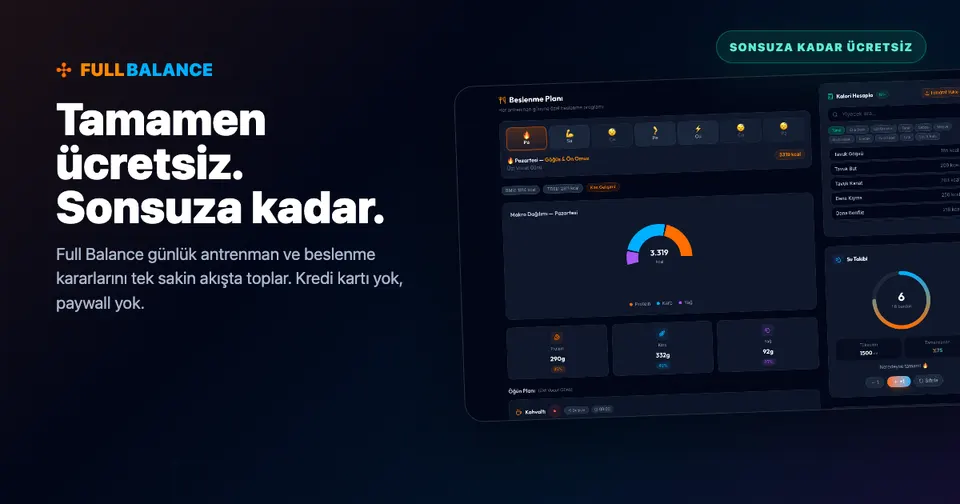
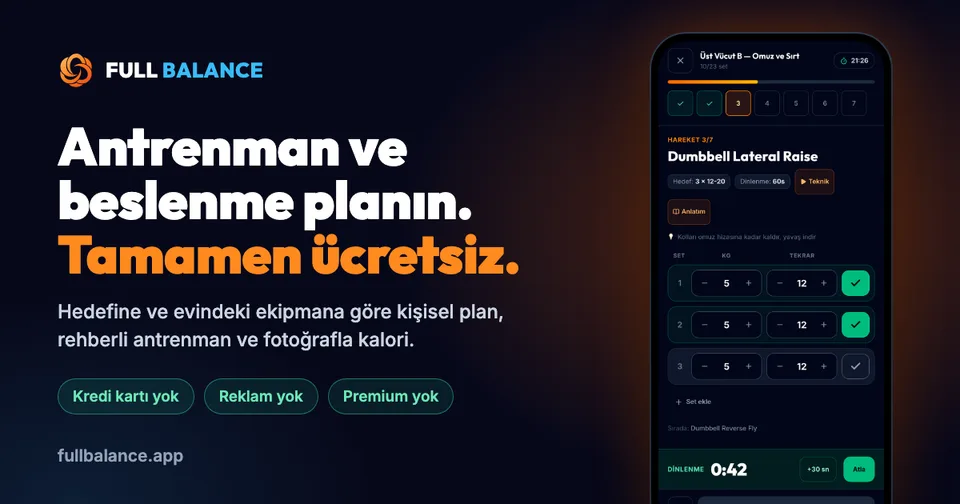
Add a press kit page and refresh share images with the new mark
- /press: key facts, features, founder, downloadable logo, icon and screens
- New TR/EN/ES share images; Spanish pages now use a Spanish image
- Target maintenance calorie searches in the EN/ES calculator titles
- Organization schema: image logo, slogan and Product Hunt profile

diff --git a/public/press/index.html b/public/press/index.html
@@ -1,0 +1,129 @@
+<!doctype html>
+<html lang="en">
+<head>
+<meta charset="utf-8">
+<meta name="viewport" content="width=device-width, initial-scale=1">
+<title>Full Balance Press Kit: Facts, Logo and Screenshots</title>
+<meta name="description" content="Press kit for Full Balance, the completely free personal workout and nutrition app at fullbalance.app: key facts, features, founder, logo files and app screenshots.">
+<link rel="canonical" href="https://fullbalance.app/press">
+<link rel="icon" type="image/png" sizes="32x32" href="/favicon-32.png?v=6">
+<meta property="og:type" content="website">
+<meta property="og:title" content="Full Balance Press Kit">
+<meta property="og:description" content="Key facts, logo files and screenshots of Full Balance, the completely free workout and nutrition app.">
+<meta property="og:url" content="https://fullbalance.app/press">
+<meta property="og:image" content="https://fullbalance.app/og/full-balance-og-en.png?v=2">
+<meta name="twitter:card" content="summary_large_image">
+<script type="application/ld+json">
+{
+  "@context": "https://schema.org",
+  "@type": "AboutPage",
+  "name": "Full Balance Press Kit",
+  "url": "https://fullbalance.app/press",
+  "inLanguage": "en",
+  "about": {
+    "@type": "Organization",
+    "@id": "https://fullbalance.app/#organization",
+    "name": "Full Balance",
+    "url": "https://fullbalance.app/",
+    "logo": "https://fullbalance.app/press/full-balance-icon-512.png",
+    "slogan": "Your personal workout and nutrition plan. Completely free.",
+    "email": "info@fullbalance.app",
+    "founder": { "@type": "Person", "name": "Tolga Deveci", "url": "https://fullbalance.app/en/founder-tolga-deveci" },
+    "sameAs": ["https://www.producthunt.com/products/full-balance"]
+  }
+}
+</script>
+<style>
+:root{--bg:#07081a;--card:#0f1229;--line:#232849;--text:#e2e8f0;--muted:#94a3b8;--accent:#ff8a1f;--sky:#38bdf8}
+*{box-sizing:border-box}
+body{margin:0;background:var(--bg);color:var(--text);font:16px/1.65 Inter,system-ui,-apple-system,"Segoe UI",sans-serif}
+main{max-width:920px;margin:0 auto;padding:40px 20px 64px}
+a{color:var(--sky)}
+.top{display:flex;justify-content:space-between;align-items:center;gap:12px}
+.brand{display:flex;align-items:center;gap:10px;font-weight:800;letter-spacing:.02em;color:#fff;text-decoration:none}
+.brand img{width:30px;height:31px}
+.brand b{color:var(--sky)}
+h1{font-size:clamp(30px,6vw,44px);line-height:1.1;margin:36px 0 12px;color:#fff}
+h2{font-size:22px;margin:40px 0 12px;color:#fff}
+.lead{font-size:19px;color:#cbd5e1;max-width:720px}
+table{width:100%;border-collapse:collapse;font-size:15px}
+th,td{text-align:left;vertical-align:top;padding:10px 12px;border-bottom:1px solid var(--line)}
+th{width:34%;color:var(--muted);font-weight:600}
+ul{padding-left:20px}
+li{margin:6px 0}
+.grid{display:grid;grid-template-columns:repeat(auto-fit,minmax(180px,1fr));gap:14px}
+.asset{background:var(--card);border:1px solid var(--line);border-radius:16px;padding:14px;text-align:center}
+.asset img{max-width:100%;height:120px;object-fit:contain;display:block;margin:0 auto 10px}
+.asset.light img{background:#fff;border-radius:10px;padding:10px}
+.shots{display:grid;grid-template-columns:repeat(auto-fit,minmax(150px,1fr));gap:14px}
+.shots a{display:block;background:#000;border-radius:20px;padding:5px;border:1px solid var(--line)}
+.shots img{width:100%;display:block;border-radius:16px}
+.note{color:var(--muted);font-size:14px}
+.cta{display:inline-block;margin-top:8px;background:var(--accent);color:#111;font-weight:800;text-decoration:none;padding:12px 18px;border-radius:12px}
+.lang{background:var(--card);border:1px solid var(--line);border-radius:16px;padding:16px 18px;margin-top:14px}
+.lang h3{margin:0 0 6px;font-size:16px;color:#fff}
+</style>
+</head>
+<body>
+<main>
+  <div class="top">
+    <a class="brand" href="/en"><img src="/press/full-balance-mark.svg" alt="" width="30" height="31"><span>FULL <b>BALANCE</b></span></a>
+    <a href="/en">fullbalance.app</a>
+  </div>
+
+  <h1>Full Balance press kit</h1>
+  <p class="lead">Full Balance is a completely free personal workout and nutrition app. It builds a plan for each person's goal, level and the equipment they have, guides every workout set by set, and estimates meal calories from a photo. There is no subscription, no paywall and no ads.</p>
+
+  <h2>Key facts</h2>
+  <table>
+    <tr><th>Name</th><td>Full Balance (fullbalance.app)</td></tr>
+    <tr><th>What it is</th><td>Free personal workout, nutrition and progress app that runs in the browser and can be installed on the phone's home screen (PWA)</td></tr>
+    <tr><th>Price</th><td>Free. No credit card, no trial, no premium tier, no ads. Optional voluntary support only.</td></tr>
+    <tr><th>Languages</th><td>English, Spanish, Turkish</td></tr>
+    <tr><th>Goals supported</th><td>Muscle gain, fat loss, yoga, meditation, reformer, Pilates</td></tr>
+    <tr><th>Training places</th><td>Home with no equipment, home with basic equipment (dumbbells, bands), gym</td></tr>
+    <tr><th>First members</th><td>June 2026</td></tr>
+    <tr><th>Members</th><td>400+ registered members (November 2026)</td></tr>
+    <tr><th>Founder</th><td><a href="/en/founder-tolga-deveci">Tolga Deveci</a>, founder and software developer</td></tr>
+    <tr><th>Contact</th><td><a href="mailto:info@fullbalance.app">info@fullbalance.app</a></td></tr>
+    <tr><th>Elsewhere</th><td><a href="https://www.producthunt.com/products/full-balance" rel="noopener">Product Hunt</a></td></tr>
+  </table>
+
+  <h2>What it does</h2>
+  <ul>
+    <li><strong>Personal plan:</strong> workouts built from the goal, experience level, available days and the equipment declared at signup.</li>
+    <li><strong>Guided workout mode:</strong> each exercise with an animated how-to and technique video, set and weight logging, an automatic rest timer and previous weights pre-filled.</li>
+    <li><strong>Nutrition:</strong> daily calorie and macro targets that follow the training day, a 7-day menu with budget, health and allergy options.</li>
+    <li><strong>Photo calories:</strong> snap a meal, correct foods and portions, and get a calorie range. The photo is processed for the analysis and not stored.</li>
+    <li><strong>Progress:</strong> weight, measurements and body-fat trends, reports and Excel export; water and sleep tracking.</li>
+    <li><strong>28-day challenge:</strong> 12 workouts in 28 days, with a printable calendar.</li>
+  </ul>
+
+  <h2>Why it is free</h2>
+  <p>Full Balance is built by an independent founder who wants a complete, honest fitness app to be available to anyone, regardless of budget. Member data is not sold or shared for advertising. The project is kept running by small, optional support from people who use it. Full Balance is not a medical tool and does not replace professional advice.</p>
+
+  <h2>Logo and icon</h2>
+  <div class="grid">
+    <div class="asset"><img src="/press/full-balance-logo-dark.png" alt="Full Balance logo on dark background"><a href="/press/full-balance-logo-dark.png" download>Logo, dark (PNG)</a></div>
+    <div class="asset light"><img src="/press/full-balance-logo-light.png" alt="Full Balance logo on light background"><a href="/press/full-balance-logo-light.png" download>Logo, light (PNG)</a></div>
+    <div class="asset"><img src="/press/full-balance-icon-512.png" alt="Full Balance app icon"><a href="/press/full-balance-icon-512.png" download>App icon (PNG)</a></div>
+    <div class="asset"><img src="/press/full-balance-mark.svg" alt="Full Balance symbol"><a href="/press/full-balance-mark.svg" download>Symbol (SVG)</a></div>
+  </div>
+  <p class="note">Please do not alter, recolour or crop the logo. Screens below use sample data.</p>
+
+  <h2>App screenshots</h2>
+  <div class="shots">
+    <a href="/press/screen-session.webp"><img src="/press/screen-session.webp" alt="Guided workout mode with sets, weights and rest timer" loading="lazy"></a>
+    <a href="/press/screen-today.webp"><img src="/press/screen-today.webp" alt="Today screen with the day's workout and weekly balance" loading="lazy"></a>
+    <a href="/press/screen-nutrition.webp"><img src="/press/screen-nutrition.webp" alt="Nutrition plan with daily calories and macros" loading="lazy"></a>
+    <a href="/press/screen-progress.webp"><img src="/press/screen-progress.webp" alt="Progress screen with weight and body-fat trends" loading="lazy"></a>
+  </div>
+
+  <h2>Other languages</h2>
+  <div class="lang"><h3>Türkçe</h3>Full Balance, tamamen ücretsiz kişisel antrenman ve beslenme uygulamasıdır. Hedefe, seviyeye ve evdeki ekipmana göre plan hazırlar, antrenmanı set set yönlendirir ve öğün fotoğrafından kalori tahmin eder. Abonelik, premium ve reklam yoktur. Basın için: <a href="mailto:info@fullbalance.app">info@fullbalance.app</a> · <a href="/kurucu-tolga-deveci">Kurucu: Tolga Deveci</a></div>
+  <div class="lang"><h3>Español</h3>Full Balance es una app de entrenamiento y nutrición personal totalmente gratis. Crea un plan según el objetivo, el nivel y el material disponible, guía cada entreno serie a serie y estima las calorías de una comida con una foto. Sin suscripción, sin muro de pago y sin anuncios. Prensa: <a href="mailto:info@fullbalance.app">info@fullbalance.app</a> · <a href="/es/fundador-tolga-deveci">Fundador: Tolga Deveci</a></div>
+
+  <p style="margin-top:36px"><a class="cta" href="/en">Visit Full Balance</a></p>
+</main>
+</body>
+</html>

diff --git a/src/data/internationalSeoPages.js b/src/data/internationalSeoPages.js
@@ -159,15 +159,15 @@ const pageDefinitions = {
     paths: { tr: '/gunluk-kalori-ihtiyaci-hesaplama', en: '/en/calorie-macro-calculator', es: '/es/calculadora-calorias-macros' },
     category: 'nutrition', calculator: 'calories',
     en: {
-      title: 'Free Daily Calorie Calculator', accent: 'BMR, Maintenance and Deficit', metaTitle: 'Daily Calorie Calculator: BMR, Maintenance and Deficit | Full Balance',
-      description: 'Calculate your basal metabolic rate, maintenance calories and a target for fat loss or muscle gain from age, height, weight, sex and activity. Free, no signup, with macros.',
+      title: 'Free Daily Calorie Calculator', accent: 'BMR, Maintenance and Deficit', metaTitle: 'Maintenance Calorie Calculator: BMR, TDEE and Deficit, Free | Full Balance',
+      description: 'Free maintenance calorie calculator: get your BMR, maintenance calories (TDEE) and a daily target for fat loss or muscle gain from age, height, weight, sex and activity. No signup, with macros.',
       hero: 'Get three numbers in seconds: BMR (what you burn at rest), maintenance (with your activity) and a daily target for your goal, split into protein, carbs and fat.',
       sections: [['Mifflin-St Jeor, the formula that holds up', 'BMR = 10 × kg + 6.25 × cm − 5 × age + 5 for men, −161 for women; the most consistent practical equation in validation studies.'], ['A deficit that you can keep', 'Fat loss uses a 15% deficit from maintenance, about 300-500 kcal for most adults, never below your BMR. Muscle gain adds 10%.'], ['Macros and a plan, not just a number', 'Protein is set from body weight, carbs and fat fill the rest. Save the result and the free plan builds seven days of meals and workouts around it.']],
       faqs: [['How many calories should I eat to lose weight?', 'About 15% below your maintenance calories, which is 300-500 kcal per day for most adults. Going below your BMR is not recommended; the calculator shows that floor.'], ['How is a calorie deficit calculated?', 'Maintenance = BMR × activity factor. A percentage is then removed depending on the goal; this calculator applies a 15% deficit for fat loss.'], ['What is the difference between BMR and maintenance calories?', 'BMR is the energy you burn at complete rest. Maintenance adds daily movement and training, typically 20-90% more depending on activity.'], ['How accurate is this?', 'The formula is based on population averages; individual error is around ±10%. Track your weight trend for two to three weeks and adjust by 100-150 kcal; the app suggests this automatically.']],
     },
     es: {
-      title: 'Calculadora de Calorías Diarias', accent: 'TMB, Mantenimiento y Déficit', metaTitle: 'Calculadora de Calorías Diarias: TMB, Mantenimiento y Déficit | Full Balance',
-      description: 'Calcula tu tasa metabólica basal, tus calorías de mantenimiento y un objetivo para adelgazar o ganar músculo según edad, altura, peso, sexo y actividad. Gratis, sin registro y con macros.',
+      title: 'Calculadora de Calorías Diarias', accent: 'TMB, Mantenimiento y Déficit', metaTitle: 'Calculadora de Calorías de Mantenimiento Gratis: TMB y Déficit | Full Balance',
+      description: 'Calculadora de calorías de mantenimiento gratis: calcula tu TMB, tus calorías de mantenimiento y un objetivo para adelgazar o ganar músculo según edad, altura, peso, sexo y actividad. Sin registro y con macros.',
       hero: 'Tres cifras en segundos: TMB (lo que gastas en reposo), mantenimiento (con tu actividad) y un objetivo diario para tu meta, repartido en proteína, carbohidratos y grasa.',
       sections: [['Mifflin-St Jeor, la fórmula que mejor funciona', 'TMB = 10 × kg + 6,25 × cm − 5 × edad + 5 en hombres, −161 en mujeres; la ecuación práctica más consistente en estudios de validación.'], ['Un déficit que puedes mantener', 'Para perder grasa o bajar de peso se aplica un 15% por debajo del mantenimiento, unas 300-500 kcal para la mayoría de adultos, nunca por debajo de la TMB. Para ganar músculo se suma un 10%.'], ['Macros y un plan, no solo un número', 'La proteína se fija según el peso corporal; carbohidratos y grasa completan el resto. Guarda el resultado y el plan gratis crea siete días de comidas y entrenamientos.']],
       faqs: [['¿Cuántas calorías debo comer para adelgazar o bajar de peso?', 'Alrededor de un 15% por debajo de tu mantenimiento, es decir 300-500 kcal diarias para la mayoría de adultos. No conviene bajar de la TMB; la calculadora muestra ese límite.'], ['¿Cómo se calcula el déficit calórico?', 'Mantenimiento = TMB × factor de actividad. Luego se resta un porcentaje según el objetivo; esta calculadora aplica un 15% para perder grasa.'], ['¿Qué diferencia hay entre TMB y calorías de mantenimiento?', 'La TMB es la energía que gastas en reposo absoluto. El mantenimiento añade el movimiento diario y el entrenamiento, normalmente un 20-90% más según la actividad.'], ['¿Qué tan precisa es?', 'La fórmula se basa en promedios poblacionales; el error individual ronda el ±10%. Sigue tu tendencia de peso dos o tres semanas y ajusta 100-150 kcal; la app lo sugiere automáticamente.']],

diff --git a/index.html b/index.html
@@ -46,8 +46,8 @@
     <meta property="og:locale" content="tr_TR" />
     <meta property="og:locale:alternate" content="en_US" />
     <meta property="og:locale:alternate" content="es_ES" />
-    <meta property="og:image" content="https://fullbalance.app/og/full-balance-og-tr.png" />
-    <meta property="og:image:secure_url" content="https://fullbalance.app/og/full-balance-og-tr.png" />
+    <meta property="og:image" content="https://fullbalance.app/og/full-balance-og-tr.png?v=2" />
+    <meta property="og:image:secure_url" content="https://fullbalance.app/og/full-balance-og-tr.png?v=2" />
     <meta property="og:image:type" content="image/png" />
     <meta property="og:image:width" content="1200" />
     <meta property="og:image:height" content="630" />
@@ -55,7 +55,7 @@
     <meta name="twitter:card" content="summary_large_image" />
     <meta name="twitter:title" content="Full Balance — Tamamen Ücretsiz Fitness ve Wellness Uygulaması" />
     <meta name="twitter:description" content="Kas gelişimi, yağ yakımı, yoga, meditasyon, reformer ve pilates; beslenme, ilerleme ve longevity dengesiyle tek yerde." />
-    <meta name="twitter:image" content="https://fullbalance.app/og/full-balance-og-tr.png" />
+    <meta name="twitter:image" content="https://fullbalance.app/og/full-balance-og-tr.png?v=2" />
     <meta name="twitter:image:alt" content="Full Balance ücretsiz kişisel fitness uygulaması" />
     <meta name="mobile-web-app-capable" content="yes" />
     <meta name="apple-mobile-web-app-status-bar-style" content="black-translucent" />
@@ -78,13 +78,14 @@
             "name": "Full Balance",
             "alternateName": ["Full Balance App", "Full Balance Fitness & Wellness App"],
             "url": "https://fullbalance.app/",
-            "logo": "https://fullbalance.app/icon-512.png",
+            "logo": { "@type": "ImageObject", "url": "https://fullbalance.app/icon-512.png", "width": 512, "height": 512 },
             "identifier": "fullbalance.app",
             "description": "The independent Full Balance Fitness & Wellness application published at fullbalance.app.",
             "founder": {
               "@id": "https://fullbalance.app/#tolga-deveci"
             },
-            "sameAs": []
+            "slogan": "Your personal workout and nutrition plan. Completely free.",
+            "sameAs": ["https://www.producthunt.com/products/full-balance"]
           },
           {
             "@type": ["WebApplication", "SoftwareApplication"],

diff --git a/src/components/InternationalLandingPage.jsx b/src/components/InternationalLandingPage.jsx
@@ -49,7 +49,7 @@ function useInternationalSeo(page) {
     setMeta('meta[property="og:description"]', { property: 'og:description' }, page.description);
     setMeta('meta[property="og:url"]', { property: 'og:url' }, url);
     setMeta('meta[property="og:locale"]', { property: 'og:locale' }, page.lang === 'es' ? 'es_ES' : 'en_US');
-    setMeta('meta[property="og:image"]', { property: 'og:image' }, `${BASE_URL}/og/full-balance-og-en.png`);
+    setMeta('meta[property="og:image"]', { property: 'og:image' }, `${BASE_URL}/og/full-balance-og-${page.lang}.png?v=2`);
     setMeta('meta[name="twitter:title"]', { name: 'twitter:title' }, page.metaTitle);
     setMeta('meta[name="twitter:description"]', { name: 'twitter:description' }, page.description);
     try { localStorage.setItem('shredmatrix_lang', page.lang); } catch {}

diff --git a/src/components/SeoLandingPage.jsx b/src/components/SeoLandingPage.jsx
@@ -32,7 +32,7 @@ const SampleHomeWeek = lazy(() => import('./SampleHomeWeek'));
 const PublicHealthCalculator = lazy(() => import('./PublicHealthCalculator'));
 
 const BASE_URL = 'https://fullbalance.app';
-const OG_IMAGE = `${BASE_URL}/og/full-balance-og-tr.png`;
+const OG_IMAGE = `${BASE_URL}/og/full-balance-og-tr.png?v=2`;
 
 import { turkishSeoPages } from '../data/turkishSeoPages';
 import BrandMark from './BrandMark';
